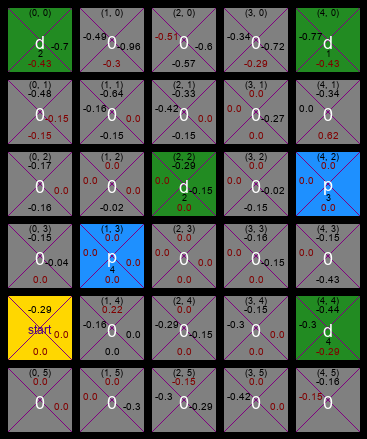
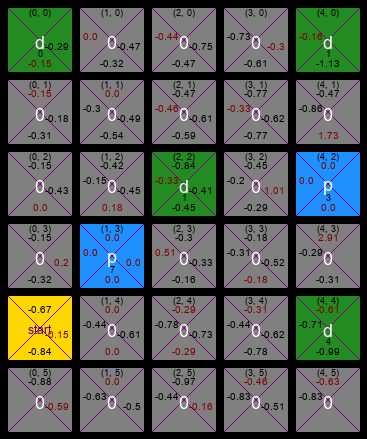
Added performance graph

diff --git a/main.py b/main.py
@@ -6,6 +6,7 @@ from vis_funcs import *
 from Visualize.visualize import Visualize as vl
 from WorldProcessing.readWorld import ReadWorld
 import cv2 as cv
+import matplotlib.pyplot as plt
 
 
 FIRST_STEPS = 500
@@ -48,13 +49,47 @@ alpha = 0.15  # learning rate
 gamma = 0.45  # discount rate
 epsilon = 0.7  # chance of being greedy in exploit policy
 
+# BANK ACCOUNT (USE FOR MEASURING PERFORMANCE)
+plot_steps = np.arange(SECOND_STEPS)  # step array use for plotting
+bank = []
+bank_account = [0]
+# put bank account in the bank
+def regBankAccount():
+    global bank_account
+    bank.append(bank_account)
+    bank_account = [0]
+    print('Put episode', episode, 'account in the bank')
+
+def plotPerformance():
+    print(len(bank), 'episodes')
+    max_len = []
+    for ba in bank:
+        max_len.append(len(ba))
+    for i, ba in enumerate(bank):
+        plt.plot(plot_steps[:max(max_len)],
+                 np.pad(ba, (0, max(max_len) - len(ba)),
+                        'constant', constant_values=ba[len(ba) - 1]), label='e%d' % (i + 1))
+    plt.xlabel('Steps')
+    plt.ylabel('Accumulated reward')
+    plt.legend()
+    plt.savefig('performance_plot.png')
+    plt.show()
+
+# ----------------------------------------------------------
+
+# DELIVERY STEPS (MEASURE PERFORMANCE)
+
+
+
+# ----------------------------------------------------------
+
 # 4th experiment enabler
 fourth_expm = 0
 
 # visualize each step
 watch = 0
 
-
+# GET USER INPUT
 def getAcceptedInput(question, accepted_inputs, return_values):
     user_input = input(question)
     while not (user_input in accepted_inputs):
@@ -66,13 +101,16 @@ def getAcceptedInput(question, accepted_inputs, return_values):
 
 def main():
     # take user input
-    global fourth_expm, watch
-    default = getAcceptedInput("Use default (SARSA, PEXPLOIT, no monitor)?\n(yes/no):", ['yes', 'no'], [True, False])
-
+    global fourth_expm, watch, drop_off_loc, pick_up_loc
+    default = getAcceptedInput("Use default (SARSA, PEXPLOIT, no monitor, plot)?\n(yes/no):",
+                               ['yes', 'no'], [True, False])
+    plot = False
+    policy = ''
     if default:
         method = "SARSA"
         policy = "PEXPLOIT"
         watch = False
+        plot = True
     else:
         method = getAcceptedInput("Which learning method?\n(Q_LEARNING/SARSA):",
                                   ["Q_LEARNING", "SARSA"], ["Q_LEARNING", "SARSA"])
@@ -81,6 +119,7 @@ def main():
             policy = getAcceptedInput("Which policy?\n(PRANDOM/PEXPLOIT/PGREEDY):",
                                       ["PRANDOM", "PEXPLOIT", "PGREEDY"], ["PRANDOM", "PEXPLOIT", "PGREEDY"])
         watch = getAcceptedInput("Monitor agent?\n(yes/no):", ['yes', 'no'], [True, False])
+        plot = getAcceptedInput("Plot performance graph?\n(yes/no):", ['yes', 'no'], [True, False])
 
     global world
     global episode
@@ -117,6 +156,9 @@ def main():
     # print("q_table after 500 steps")
     # print(q_table)
     if fourth_expm:
+        _, _, world = ReadWorld().fill_world('testworld.txt')
+        drop_off_loc = [(0, 0), (4, 0), (2, 2), (4, 4)]
+        pick_up_loc = [(1, 3), (4, 2)]
         policy = "PEXPLOIT"
     # if terminal state was not reached in first 500 steps, keep going
     steps2 = 0
@@ -149,7 +191,8 @@ def main():
         putAgent(h, w, q_table, world, vis_objs['q_table_with_block'], has_block, x, y, start_x, start_y, 'ab')
     else:
         putAgent(h, w, q_table, world, vis_objs['q_table_no_block'], has_block, x, y, start_x, start_y, 'a')
-
+    if plot:
+        plotPerformance()
 
 def applyAction(action):
     global drop_off_loc
@@ -159,10 +202,12 @@ def applyAction(action):
     if action == 'd':
         world[(x, y)]['no_of_blocks'] += 1
         if world[(x, y)]['no_of_blocks'] == 4:
+            print(x, y)
             drop_off_loc.remove((x, y))
             # RECORD FIRST TIME A DROP OFF IS FULL
             if episode == 1 and len(drop_off_loc) == 3:
                 fillQValues(h, w, q_table, world, vis_objs['first_drop_off_full'], False, start_x, start_y)
+            # -------------------------
             print((x, y), 'is full')
         has_block = False
     elif action == 'p':
@@ -230,7 +275,8 @@ def sarsa(state, action, reward, next_state, next_actions, policy):
 
 
 def doSteps(steps, policy, method):
-    global x, y, drop_off_loc, pick_up_loc, has_block, done, world, q_offset, q_table, count_steps, episode, watch
+    global x, y, drop_off_loc, pick_up_loc, has_block, \
+        done, world, q_offset, q_table, count_steps, episode, watch, bank_account
     '''
     global best_q_table, best_steps, best_episode  # EXPERIMENTAL FEATURE
     '''
@@ -255,9 +301,12 @@ def doSteps(steps, policy, method):
             action, reward = exploitAction(state, valid_actions, epsilon)
         elif (policy == 'PGREEDY'):
             action, reward = greedyAction(state, valid_actions)
-
+        bank_account.append(bank_account[len(bank_account)-1]+reward)
         # has_block gets updated here
         applyAction(action)
+
+        # BANK THE REWARD
+
 
         next_x, next_y = getNextCoords(action, world, x, y)
         if (coordsNotValid(next_x, next_y, w, h)): break
@@ -282,9 +331,12 @@ def doSteps(steps, policy, method):
         # if terminal state reached
         # reset world, put agent back at start
         if len(pick_up_loc) == 0 and len(drop_off_loc) == 0:  # or (policy == 'PGREEDY' and steps == best_steps):
+            # Put episode bank account in the bank
+            regBankAccount()
             # RECORD FIRST TERMINATE
             if episode == 1:
                 fillQValues(h, w, q_table, world, vis_objs['first_terminate'], False, start_x, start_y)
+            # ------------------------------
             print(q_table)
             print('episode', episode, 'is done | agent takes:', count_steps, 'steps')  # ,'| best steps: ', best_steps)
             print("\nTerminal state reached")
